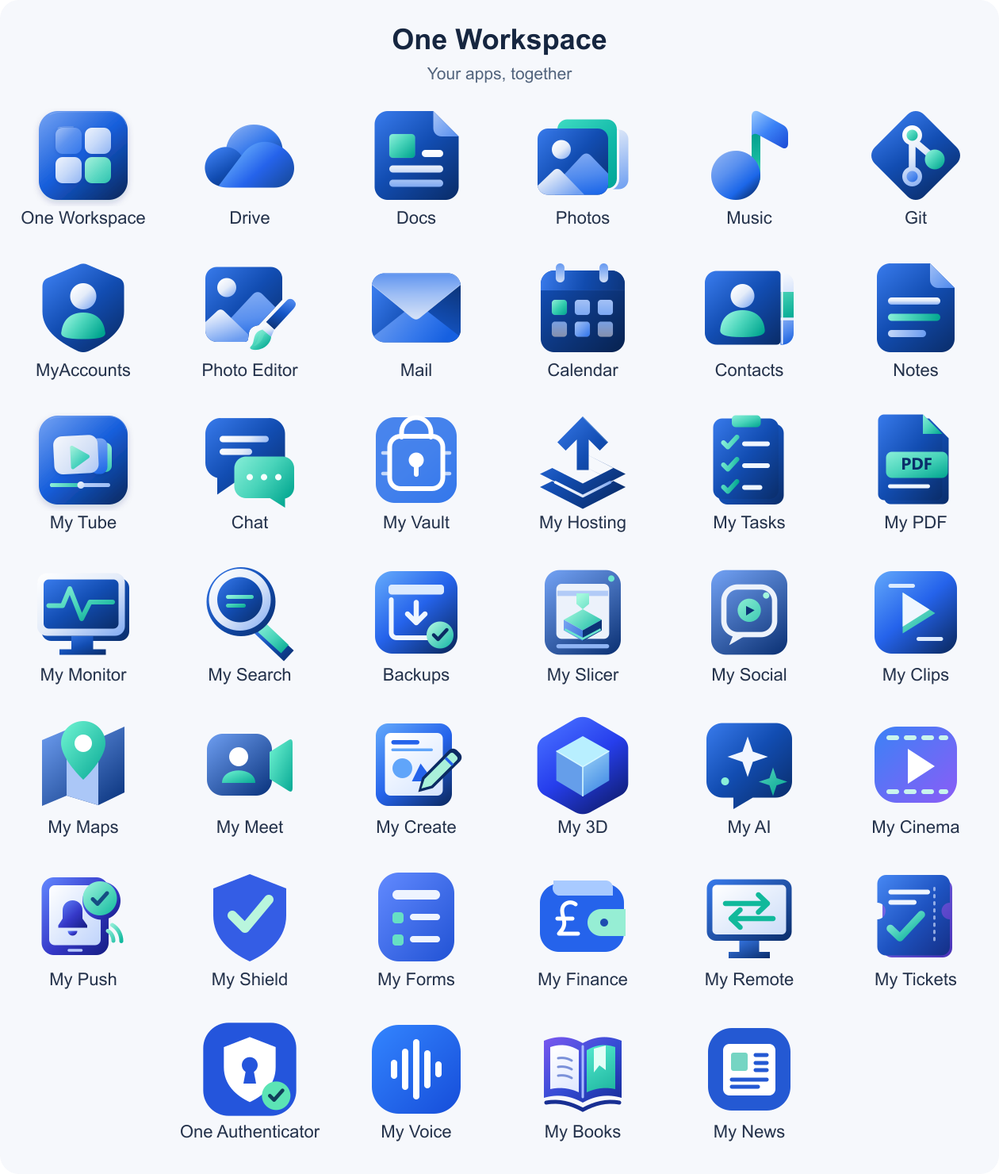
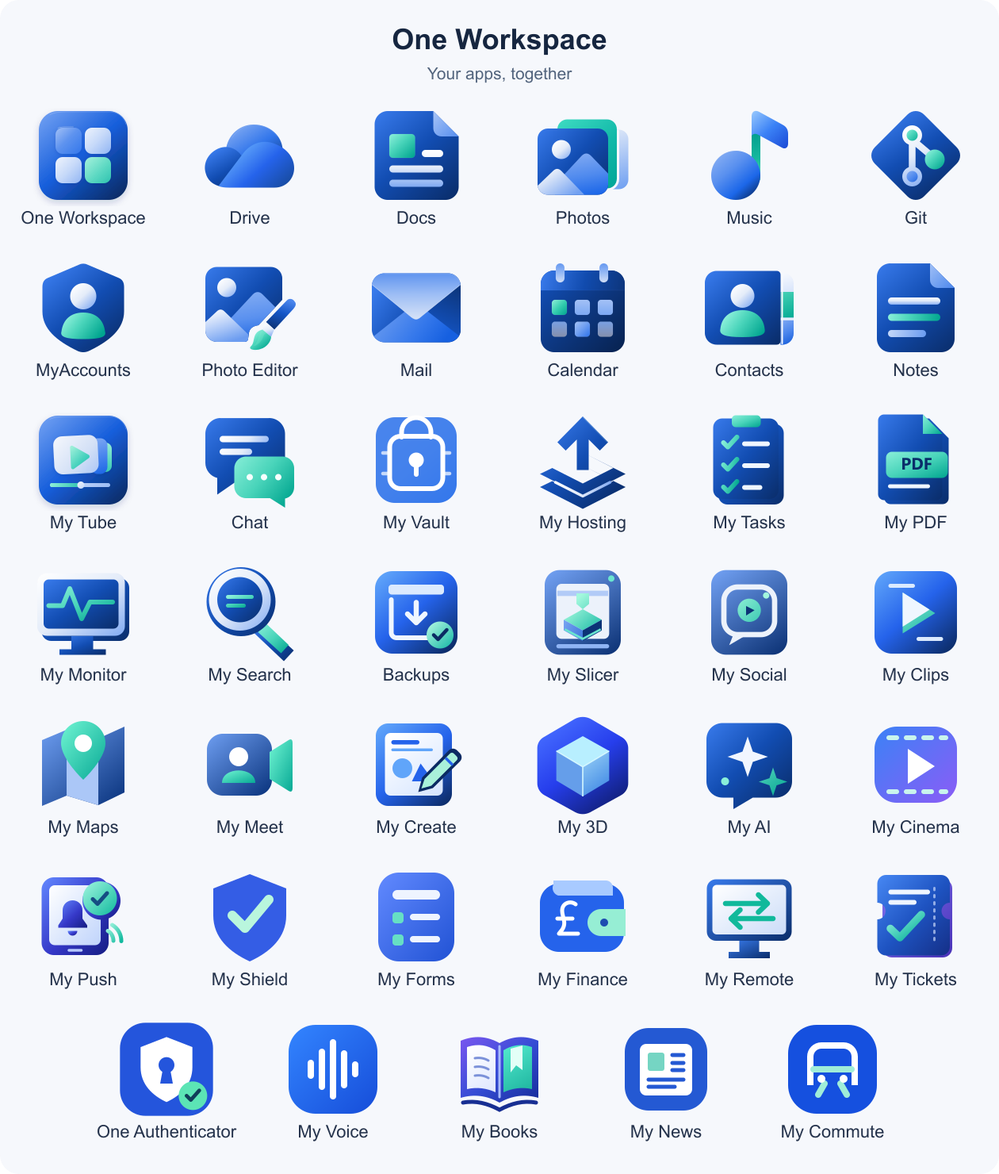
Add managed My Commute with complete optional app delivery [skip ci]

Changed region(s): [[0.0929, 0.8703, 0.8976, 0.9946]]

diff --git a/docs/branding/index.html b/docs/branding/index.html
@@ -2,6 +2,6 @@
 <html lang="en"><head><meta charset="utf-8"><meta name="viewport" content="width=device-width,initial-scale=1"><title>One Workspace logos</title><link rel="icon" href="../../internal/branding/icons/one_workspace.svg"><style>
 *{box-sizing:border-box}body{margin:0;background:#f4f6fb;color:#17233b;font:16px system-ui,sans-serif}main{max-width:1180px;margin:40px auto;padding:0 26px}header{display:flex;gap:20px;align-items:center;margin-bottom:32px}header img{width:72px;height:72px}h1{font-size:32px;margin:0 0 8px;letter-spacing:-1px}p{margin:0;color:#65718a}.grid{display:grid;grid-template-columns:repeat(4,1fr);gap:20px}article{background:white;border:1px solid #dfe5ef;border-radius:18px;overflow:hidden}h2{font-size:16px;margin:20px}.samples{display:flex;align-items:center;justify-content:center;gap:18px;height:136px;background:repeating-conic-gradient(#edf0f6 0% 25%,white 0% 50%) 50%/20px 20px}.samples img{width:80px;height:80px}.dark{background:#11182a}.small{display:flex;align-items:center;gap:14px;padding:20px;color:#7b879b;font-size:12px}.small img{flex:none}@media(max-width:850px){.grid{grid-template-columns:repeat(2,1fr)}}@media(max-width:450px){.grid{grid-template-columns:1fr}}
 </style></head><body><main><header><img src="../../internal/branding/icons/one_workspace.svg" alt=""><div><h1>One Workspace</h1><p>The complete app collection · shared blue artwork</p></div></header><div class="grid" id="logos"></div></main><script>
-const apps=[["one_workspace","One Workspace"],["my_drive","Drive"],["my_office","Docs"],["my_photos","Photos"],["my_music","Music"],["my_git","Git"],["my_accounts","MyAccounts"],["photo_editor","Photo Editor"],["my_mail","Mail"],["my_calendar","Calendar"],["my_contacts","Contacts"],["my_notes","Notes"],["my_tube","My Tube"],["my_chat","Chat"],["my_vault","My Vault"],["my_hosting","My Hosting"],["my_tasks","My Tasks"],["my_pdf","My PDF"],["my_monitor","My Monitor"],["my_search","My Search"],["backups","Backups"],["my_slicer","My Slicer"],["my_social","My Social"],["my_clips","My Clips"],["my_maps","My Maps"],["my_meet","My Meet"],["my_create","My Create"],["my_3d","My 3D"],["my_ai","My AI"],["my_cinema","My Cinema"],["my_push","My Push"],["my_shield","My Shield"],["my_forms","My Forms"],["my_finance","My Finance"],["my_remote","My Remote"],["my_tickets","My Tickets"],["one_authenticator","One Authenticator"],["my_voice","My Voice"],["my_books","My Books"],["my_news","My News"]];
+const apps=[["one_workspace","One Workspace"],["my_drive","Drive"],["my_office","Docs"],["my_photos","Photos"],["my_music","Music"],["my_git","Git"],["my_accounts","MyAccounts"],["photo_editor","Photo Editor"],["my_mail","Mail"],["my_calendar","Calendar"],["my_contacts","Contacts"],["my_notes","Notes"],["my_tube","My Tube"],["my_chat","Chat"],["my_vault","My Vault"],["my_hosting","My Hosting"],["my_tasks","My Tasks"],["my_pdf","My PDF"],["my_monitor","My Monitor"],["my_search","My Search"],["backups","Backups"],["my_slicer","My Slicer"],["my_social","My Social"],["my_clips","My Clips"],["my_maps","My Maps"],["my_meet","My Meet"],["my_create","My Create"],["my_3d","My 3D"],["my_ai","My AI"],["my_cinema","My Cinema"],["my_push","My Push"],["my_shield","My Shield"],["my_forms","My Forms"],["my_finance","My Finance"],["my_remote","My Remote"],["my_tickets","My Tickets"],["one_authenticator","One Authenticator"],["my_voice","My Voice"],["my_books","My Books"],["my_news","My News"],["my_commute","My Commute"]];
 document.querySelector('#logos').innerHTML=apps.map(([file,name])=>`<article><h2>${name}</h2><div class="samples"><img src="../../internal/branding/icons/${file}.svg" alt="${name}"></div><div class="samples dark"><img src="../../internal/branding/icons/${file}.svg" alt=""></div><div class="small"><img src="${file}-32.png" width="16" height="16" alt=""><img src="${file}-32.png" width="24" height="24" alt=""><img src="${file}-32.png" width="32" height="32" alt=""><span>16 · 24 · 32</span></div></article>`).join('');
 </script></body></html>

diff --git a/scripts/build-managed-seed.py b/scripts/build-managed-seed.py
@@ -8,6 +8,7 @@ from pathlib import Path
 from managed_component import remote_component, tickets_component, hosting_replacements
 from voice_component import voice_component
 from books_component import books_component
+from commute_component import commute_component
 from myai_component import myai_replacements
 from tube_component import tube_replacements
 from slicer_component import slicer_replacements
@@ -38,7 +39,7 @@ def extract(z,target):
    assert (m.external_attr>>16)&0o170000!=0o120000
   src.extractall(target)
 def main():
- p=argparse.ArgumentParser();p.add_argument('--go',default='go');p.add_argument('--version',required=True);p.add_argument('--cache',required=True);p.add_argument('--out',required=True);p.add_argument('--seed-archive');p.add_argument('--tickets-candidate',help='Local acceptance only; publisher rejects candidate builds');p.add_argument('--authenticator-candidate',help='Local acceptance only');p.add_argument('--accounts-candidate',help='Local acceptance only');p.add_argument('--books-candidate',help='Local My Books acceptance archive; not a public pin');p.add_argument('--voice-candidate',help='Local acceptance only; publisher rejects candidate builds');p.add_argument('--news-candidate',help='Local My News acceptance archive; not a public pin');a=p.parse_args()
+ p=argparse.ArgumentParser();p.add_argument('--go',default='go');p.add_argument('--version',required=True);p.add_argument('--cache',required=True);p.add_argument('--out',required=True);p.add_argument('--seed-archive');p.add_argument('--tickets-candidate',help='Local acceptance only; publisher rejects candidate builds');p.add_argument('--authenticator-candidate',help='Local acceptance only');p.add_argument('--accounts-candidate',help='Local acceptance only');p.add_argument('--books-candidate',help='Local My Books acceptance archive; not a public pin');p.add_argument('--voice-candidate',help='Local acceptance only; publisher rejects candidate builds');p.add_argument('--news-candidate',help='Local My News acceptance archive; not a public pin');p.add_argument('--commute-candidate',help='Local My Commute acceptance only; never publish');a=p.parse_args()
  cache=Path(a.cache).resolve();out=Path(a.out).resolve();cache.mkdir(parents=True,exist_ok=True);out.mkdir(parents=True,exist_ok=True)
  lock=json.loads((ROOT/'organization-components.lock.json').read_text(encoding='utf-8-sig'))
  seed=asset(lock['managedSeed'],cache,a.seed_archive);remote=asset(lock['myRemote'],cache)
@@ -80,12 +81,17 @@ def main():
  else:raise ValueError('Publish and pin My News before a release, or use --news-candidate for local acceptance')
  news_stage=Path(tempfile.mkdtemp(prefix='news-',dir=cache));extract(news,news_stage)
  news_contract=news_component(news_stage,allow_candidate=bool(a.news_candidate))
- contracts=[news_contract,books_contract,contract,ticket_contract,authenticator_component(auth_stage),voice_component(voice_stage,allow_candidate=bool(a.voice_candidate))]
+ if a.commute_candidate:commute=Path(a.commute_candidate).resolve()
+ elif lock.get('myCommute'):commute=asset(lock['myCommute'],cache)
+ else:raise ValueError('Publish and pin My Commute or pass --commute-candidate for local acceptance')
+ commute_stage=Path(tempfile.mkdtemp(prefix='commute-',dir=cache));extract(commute,commute_stage)
+ commute_contract=commute_component(commute_stage,allow_candidate=bool(a.commute_candidate))
+ contracts=[news_contract,commute_contract,books_contract,contract,ticket_contract,authenticator_component(auth_stage),voice_component(voice_stage,allow_candidate=bool(a.voice_candidate))]
  env=os.environ.copy();env.update(CGO_ENABLED='0',GOTOOLCHAIN='local')
  def go(*args):subprocess.run([a.go,*args],cwd=ROOT,env=env,check=True)
  go('build','-buildvcs=false','-trimpath','-ldflags',f'-s -w -X main.version={a.version}','-o',str(out/'Workspace.exe'),'./cmd/workspace')
  with zipfile.ZipFile(seed) as base:
-  cat=json.loads(base.read('catalog.json'));old=json.loads(json.dumps(cat));cat['version']=a.version;cat['installerIntegration']=9
+  cat=json.loads(base.read('catalog.json'));old=json.loads(json.dumps(cat));cat['version']=a.version;cat['installerIntegration']=10
   for key,item in old['packages'].items():
    h=hashlib.sha256();size=0
    with base.open(item['file']) as src:
@@ -124,6 +130,6 @@ def main():
     for item in contract['inputs'].values():dst.write(item['source'],item['file'])
  shutil.copyfile(payload,out/'workspace-bundle.zip')
  go('build','-buildvcs=false','-trimpath','-ldflags','-s -w -X github.com/oneworkspacestudio/one-workspace/internal/distribution.Repository=oneworkspacestudio/one-workspace','-o',str(out/'WorkspaceSetup-windows-amd64.exe'),'./cmd/setup')
- (out/'managed-build.json').write_text(json.dumps({'schema':1,'version':a.version,'seed':lock['managedSeed'],'remote':lock['myRemote'],'tickets':lock['myTickets'],'accounts':lock['accounts'],'hosting':lock['myHosting'],'voice':lock['myVoice'],'authenticator':lock['oneAuthenticator'],'books':lock.get('myBooks'),'news':lock.get('myNews'),'myAI':lock['myAI'],'myTube':lock['myTube'],'mySlicer':lock['mySlicer'],'myFinance':lock['myFinance'],'candidate':bool(a.news_candidate or a.books_candidate or a.tickets_candidate or a.authenticator_candidate or a.accounts_candidate or a.voice_candidate),'priorAppContractsRetainedExceptAccountsHostingMyAIMyTubeSlicerAndFinanceVersions':True,'priorPackagesRetainedExceptManagerAccountsHostingMyAIMyTubeSlicerFinanceAndReleaseNotes':True,'completeInventory':len(cat['apps']),'builder':'scripts/build-managed-seed.py'},indent=2),encoding='utf-8')
+ (out/'managed-build.json').write_text(json.dumps({'schema':1,'version':a.version,'seed':lock['managedSeed'],'remote':lock['myRemote'],'tickets':lock['myTickets'],'accounts':lock['accounts'],'hosting':lock['myHosting'],'voice':lock['myVoice'],'authenticator':lock['oneAuthenticator'],'books':lock.get('myBooks'),'news':lock.get('myNews'),'commute':lock.get('myCommute'),'myAI':lock['myAI'],'myTube':lock['myTube'],'mySlicer':lock['mySlicer'],'myFinance':lock['myFinance'],'candidate':bool(a.commute_candidate or a.news_candidate or a.books_candidate or a.tickets_candidate or a.authenticator_candidate or a.accounts_candidate or a.voice_candidate),'priorAppContractsRetainedExceptAccountsHostingMyAIMyTubeSlicerAndFinanceVersions':True,'priorPackagesRetainedExceptManagerAccountsHostingMyAIMyTubeSlicerFinanceAndReleaseNotes':True,'completeInventory':len(cat['apps']),'builder':'scripts/build-managed-seed.py'},indent=2),encoding='utf-8')
  print('Verified managed bundle:',len(cat['apps']),'apps;',len(cat['packages']),'packages',flush=True)
 if __name__=='__main__':main()

diff --git a/internal/setupui/page.go b/internal/setupui/page.go
@@ -32,7 +32,7 @@ async function checkAddresses(){const sequence=++addressSequence,domain=normalDo
 async function pollHosting(){try{const r=await api('state');hostingState(r);if(r.connecting)setTimeout(pollHosting,1000)}catch(e){connecting=false;$('connect').disabled=false;error(e)}}
 function drawProgress(p){if(!p||!p.total){$('progress').hidden=true;$('progressMeta').textContent='';$('checklist').replaceChildren();return}$('progress').hidden=false;$('progressFill').style.width=p.percent+'%';$('progress').setAttribute('aria-valuenow',String(p.percent));const elapsed=Math.max(0,Math.floor((Date.now()-Date.parse(p.startedAt))/1000));$('progressMeta').textContent=p.completed+' of '+p.total+' steps checked'+(['starting','installing'].includes(p.state)?' · '+Math.floor(elapsed/60)+'m '+elapsed%60+'s elapsed':'');$('phase').textContent=p.phase;const list=$('checklist');list.replaceChildren();for(const item of p.steps){const row=document.createElement('li'),mark=document.createElement('span'),text=document.createElement('div'),title=document.createElement('strong');mark.className='stepmark '+item.state;mark.textContent=({done:'✓',running:'…',warning:'!',failed:'×',blocked:'·'})[item.state]||'·';title.textContent=item.label;text.append(title);if(item.detail){const detail=document.createElement('small');detail.textContent=item.detail;text.append(detail)}row.append(mark,text);list.append(row)}}
 let appCatalog=[],appChecks={},retryOnly=false;
-function appChoices(apps){if(appCatalog.length||!apps?.length)return;appCatalog=apps;const sections={};for(const category of [{id:'general',name:'General'},{id:'administration',name:'Administration'},{id:'development',name:'Creative & Development'}]){if(!apps.some(a=>(a.category||'general')===category.id))continue;const section=document.createElement('fieldset'),heading=document.createElement('legend');heading.textContent=category.name+(category.id==='development'?' · optional':' · selected by default');section.style.cssText='border:1px solid #e2e7f2;border-radius:14px;padding:4px 16px 16px;margin-top:20px';section.append(heading);$('appChoices').append(section);sections[category.id]=section}for(const app of apps){const label=document.createElement('label'),check=document.createElement('input'),text=document.createElement('span');label.className='check';check.type='checkbox';check.checked=app.defaultInstall!==false;check.disabled=app.id==='accounts';appChecks[app.id]=check;text.textContent=app.name+(app.id==='accounts'?' (required)':'');const hint=document.createElement('small');hint.textContent=app.description;text.append(hint);label.append(check,text);(sections[app.category||'general']||$('appChoices')).append(label);check.onchange=()=>{if(check.checked){const include=id=>{for(const dep of appCatalog.find(a=>a.id===id)?.depends||[]){appChecks[dep].checked=true;include(dep)}};include(app.id)}else{let changed=true;while(changed){changed=false;for(const a of appCatalog){if(appChecks[a.id].checked&&(a.depends||[]).some(dep=>!appChecks[dep].checked)){appChecks[a.id].checked=false;changed=true}}}}appCount()}}appCount()}
+function appChoices(apps){if(appCatalog.length||!apps?.length)return;appCatalog=apps;const sections={};for(const category of [{id:'general',name:'General'},{id:'administration',name:'Administration'},{id:'development',name:'Creative & Development'}]){if(!apps.some(a=>(a.category||'general')===category.id))continue;const section=document.createElement('fieldset'),heading=document.createElement('legend');heading.textContent=category.name+(category.id==='development'?' · optional':' · selected by default');section.style.cssText='border:1px solid #e2e7f2;border-radius:14px;padding:4px 16px 16px;margin-top:20px';section.append(heading);$('appChoices').append(section);sections[category.id]=section}for(const app of apps){const label=document.createElement('label'),check=document.createElement('input'),text=document.createElement('span');label.className='check';check.type='checkbox';check.checked=app.defaultInstall!==false;check.disabled=app.id==='accounts';appChecks[app.id]=check;text.textContent=app.name+(app.id==='accounts'?' (required)':app.defaultInstall===false?' (optional)':'');const hint=document.createElement('small');hint.textContent=app.description;text.append(hint);label.append(check,text);(sections[app.category||'general']||$('appChoices')).append(label);check.onchange=()=>{if(check.checked){const include=id=>{for(const dep of appCatalog.find(a=>a.id===id)?.depends||[]){appChecks[dep].checked=true;include(dep)}};include(app.id)}else{let changed=true;while(changed){changed=false;for(const a of appCatalog){if(appChecks[a.id].checked&&(a.depends||[]).some(dep=>!appChecks[dep].checked)){appChecks[a.id].checked=false;changed=true}}}}appCount()}}appCount()}
 function appCount(){$('appCount').textContent=appCatalog.filter(a=>appChecks[a.id].checked).length+' of '+appCatalog.length+' apps selected. Backups is included and scheduling starts off.'}
 async function poll(){clearTimeout(pollTimer);if(reviewingRecovery)return;try{const r=await api('state');appChoices(r.availableApps);$('version').textContent=r.offline?'Offline bundle '+r.version:installed?r.version:'Latest apps from GitHub';hostingState(r);
 if(r.busy){$('continueSetup').hidden=true;$('reviewRecovery').hidden=true;$('error').hidden=true;busy=false;if(step!==3)show(3);busy=true;$('navigation').hidden=true;$('installTitle').textContent='Installing your Workspace…';$('summary').textContent='Installation is continuing. Reopening this page does not start another install.';drawProgress(r.installation);$('phase').textContent=r.phase;pollTimer=setTimeout(poll,1000);return}

diff --git a/scripts/commute_component.py b/scripts/commute_component.py
@@ -1,0 +1,25 @@
+"""My Commute package: one executable with embedded UI and private apphost state."""
+import hashlib,json,re
+from pathlib import Path
+
+def commute_component(root,allow_candidate=False):
+ root=Path(root).resolve();c=json.loads((root/'compatibility.json').read_text(encoding='utf-8-sig'));m=json.loads((root/'manifest.json').read_text(encoding='utf-8-sig'))
+ assert c['schema']==1 and c['id']=='commute' and c['route']=='/commute' and c['oidc'] is True
+ assert c['workspaceInstallerIntegration']==10 and c['minimumWorkspaceVersion']=='0.3.0-preview.116'
+ assert c['singleExecutable'] is True and c['capabilities']==['native-commute-v1']
+ assert m['version']==c['version'] and m['executableSHA256']==hashlib.sha256((root/'MyCommute.exe').read_bytes()).hexdigest()
+ if not allow_candidate:assert m.get('candidate') is False and re.fullmatch('[a-f0-9]{40}',m.get('sourceCommit',''))
+ inputs={}
+ for p in sorted(root.rglob('*')):
+  if not p.is_file():continue
+  rel=p.relative_to(root).as_posix()
+  if rel=='MyCommute.exe':key,dest='commute',rel
+  elif rel in ['LICENSE','NOTICE','THIRD-PARTY-NOTICES.md']:key,dest='commute-'+rel,'licenses/MyCommute-'+rel
+  elif rel in ['compatibility.json','manifest.json']:key,dest='commute-'+('contract' if rel=='compatibility.json' else 'manifest'),'docs/MyCommute/'+rel
+  elif rel.startswith('licenses/'):key,dest='commute-license-'+hashlib.sha256(rel.encode()).hexdigest()[:16],'licenses/MyCommute/'+rel[9:]
+  elif rel in ['README.md','docs/ACCEPTANCE.md','docs/DATA-SOURCES.md','docs/SECURITY.md']:key,dest='commute-doc-'+hashlib.sha256(rel.encode()).hexdigest()[:16],'docs/MyCommute/'+rel
+  else:raise ValueError('Unexpected Commute payload '+rel)
+  inputs[key]={'source':str(p),'file':dest}
+ assert all(k in inputs for k in ['commute','commute-contract','commute-manifest','commute-LICENSE','commute-NOTICE'])
+ app={'id':'commute','name':'My Commute','description':'Follow live London buses, Tube and trains and plan your next connection','version':c['version'],'kind':'process','package':'commute','executable':'MyCommute.exe','port':9040,'route':'/commute','stripPrefix':True,'health':'/healthz','depends':['accounts'],'oidc':True,'callback':'/commute/auth/callback','args':['--data','${DATA}/commute','--listen','127.0.0.1:${PORT}','--origin','${ORIGIN}/commute','--no-browser'],'source':'https://github.com/oneworkspacestudio/my-commute/releases/tag/v'+c['version']}
+ return {'app':app,'inputs':inputs}

diff --git a/scripts/test-publisher.py b/scripts/test-publisher.py
@@ -12,9 +12,10 @@ class PublisherWindowsArguments(unittest.TestCase):
     def test_books_publisher_requires_current_complete_inventory(self):
         registry=json.loads((publisher.ROOT/'internal/catalog/managed-apps.json').read_text())['apps']
         apps=[dict(id=a['id'],name=a['name'],route=a['route'],oidc=a['oidc'],source='https://github.com/'+a['repository']+'/releases/tag/test') for a in registry]
-        publisher.validate_managed_catalog(dict(installerIntegration=9,apps=apps))
-        with self.assertRaises(RuntimeError):publisher.validate_managed_catalog(dict(installerIntegration=8,apps=apps))
-        with self.assertRaises(RuntimeError):publisher.validate_managed_catalog(dict(installerIntegration=9,apps=[a for a in apps if a['id']!='books']))
+        publisher.validate_managed_catalog(dict(installerIntegration=10,apps=apps))
+        with self.assertRaises(RuntimeError):publisher.validate_managed_catalog(dict(installerIntegration=9,apps=apps))
+        with self.assertRaises(RuntimeError):publisher.validate_managed_catalog(dict(installerIntegration=10,apps=[a for a in apps if a['id']!='books']))
+        with self.assertRaises(RuntimeError):publisher.validate_managed_catalog(dict(installerIntegration=10,apps=[a for a in apps if a['id']!='commute']))
     def test_large_catalog_uploads_every_asset_once_with_bounded_utf16_commands(self):
         paths = ['C:/Synthetic staging folder \U0001f4e6/' + 'x'*100 + '/workspace-package-' + str(n) + '.bin' for n in range(600)]
         commands = list(publisher.upload_commands('v0.3.0-preview.104', paths))

diff --git a/internal/distribution/requirements.go b/internal/distribution/requirements.go
@@ -11,7 +11,7 @@ var managerRequirementVersion = regexp.MustCompile(`^[0-9]+\.[0-9]+\.[0-9]+(?:-[
 // Add a capability only after its manager integration exists and is tested.
 // The origin capability is exercised with actual native SSO, catalog and logout
 // fixtures. It does not claim application E2EE, calling or native mobile support.
-var managerCapabilities = map[string]bool{"native-news-v1": true, "native-books-v1": true, "native-voice-v1": true, "oneaccount-mfa-v1": true, "oneaccount-offline-totp-v1": true, "self-hosted-push-v1": true, "app-update-requirements-v1": true, "chat-state-v2": true, "isolated-chat-origin-v1": true, "guarded-social-storage-v1": true, "scoped-social-storage-v2": true, "scoped-clips-storage-v1": true, "scoped-forms-storage-v1": true, "native-tickets-v1": true, "native-hosting-git-v1": true}
+var managerCapabilities = map[string]bool{"native-commute-v1": true, "native-news-v1": true, "native-books-v1": true, "native-voice-v1": true, "oneaccount-mfa-v1": true, "oneaccount-offline-totp-v1": true, "self-hosted-push-v1": true, "app-update-requirements-v1": true, "chat-state-v2": true, "isolated-chat-origin-v1": true, "guarded-social-storage-v1": true, "scoped-social-storage-v2": true, "scoped-clips-storage-v1": true, "scoped-forms-storage-v1": true, "native-tickets-v1": true, "native-hosting-git-v1": true}
 
 func checkRequirements(current, minimum string, capabilities []string) error {
 	if len(minimum) > 80 || !managerRequirementVersion.MatchString(minimum) {

diff --git a/scripts/test-commute-component.py b/scripts/test-commute-component.py
@@ -1,0 +1,16 @@
+import unittest,tempfile,json,hashlib
+from pathlib import Path
+from commute_component import commute_component
+class CommuteContract(unittest.TestCase):
+ def test_namespace_hash_and_candidate_boundary(self):
+  with tempfile.TemporaryDirectory() as d:
+   r=Path(d);(r/'MyCommute.exe').write_bytes(b'synthetic');(r/'LICENSE').write_text('MIT');(r/'NOTICE').write_text('Synthetic notices')
+   (r/'compatibility.json').write_text(json.dumps(dict(schema=1,id='commute',route='/commute',oidc=True,version='0.1.0-preview.1',workspaceInstallerIntegration=10,minimumWorkspaceVersion='0.3.0-preview.116',singleExecutable=True,capabilities=['native-commute-v1'])))
+   (r/'manifest.json').write_text(json.dumps(dict(version='0.1.0-preview.1',candidate=True,executableSHA256=hashlib.sha256(b'synthetic').hexdigest())))
+   c=commute_component(r,True);self.assertEqual(c['app']['callback'],'/commute/auth/callback');self.assertEqual(c['app']['port'],9040);self.assertTrue(all(k=='commute' or k.startswith('commute-') for k in c['inputs']))
+   with self.assertRaises(AssertionError):commute_component(r)
+   (r/'private-data.json').write_text('{}')
+   with self.assertRaises(ValueError):commute_component(r,True)
+   (r/'private-data.json').unlink();(r/'MyCommute.exe').write_bytes(b'changed')
+   with self.assertRaises(AssertionError):commute_component(r,True)
+if __name__=='__main__':unittest.main()

diff --git a/internal/catalog/commute_test.go b/internal/catalog/commute_test.go
@@ -1,0 +1,30 @@
+package catalog
+
+import "testing"
+
+func TestCommuteSelectionOwnsWholePackage(t *testing.T) {
+	if DefaultInstall("commute") || CategoryFor("commute").ID != "general" {
+		t.Fatal("London app must be an optional General app")
+	}
+	c := Catalog{Packages: map[string]Package{"commute": {File: "MyCommute.exe"}, "commute-contract": {File: "docs/MyCommute/compatibility.json"}, "commute-manifest": {File: "docs/MyCommute/manifest.json"}, "unrelated": {File: "Other.exe"}}, Apps: []App{{ID: "commute", Package: "commute"}, {ID: "other", Package: "unrelated"}}}
+	for _, on := range []bool{true, false} {
+		ids := InstallPackageIDs(c, map[string]bool{"commute": on, "other": true})
+		if ids["commute"] != on || ids["commute-contract"] != on || ids["commute-manifest"] != on || !ids["unrelated"] {
+			t.Fatal("package ownership drift", ids)
+		}
+	}
+}
+func TestCommuteRequiredInCompleteRegistry(t *testing.T) {
+	var c Catalog
+	for _, a := range ManagedApps() {
+		if a.ID != "commute" {
+			c.Apps = append(c.Apps, App{ID: a.ID, Name: a.Name, Route: a.Route, OIDC: a.OIDC})
+		}
+	}
+	if c.ValidateManagedInventory() == nil {
+		t.Fatal("release must reject missing Commute")
+	}
+	if InstallerIntegration < 10 {
+		t.Fatal("old controllers cannot install Commute")
+	}
+}

diff --git a/internal/suite/commute_test.go b/internal/suite/commute_test.go
@@ -1,0 +1,27 @@
+package suite
+
+import (
+	"github.com/oneworkspacestudio/one-workspace/internal/catalog"
+	"path/filepath"
+	"testing"
+)
+
+func TestCommuteManagedContract(t *testing.T) {
+	c := NewConfig(Request{Port: 29000, Mode: "local", Programs: "C:/Synthetic/Apps", Data: "C:/Synthetic/Data", Files: "C:/Synthetic/Files"}, catalog.Catalog{Apps: []catalog.App{{ID: "commute", Kind: "process", Executable: "MyCommute.exe", Port: 9040, Route: "/commute", OIDC: true}}})
+	a, ok := c.Catalog.Find("commute")
+	if !ok || a.Port != 29050 || !foundationApp("commute") || !knownUpdateStorageProfile("commute") {
+		t.Fatal("Commute runtime/auth/storage not registered", a)
+	}
+	if appWorkingDir(c, "commute") != filepath.Join(c.Data, "commute") || len(appUpdatePrivatePaths("commute")) != 1 {
+		t.Fatal("private recovery scope missing")
+	}
+	for _, s := range suiteSignIns {
+		if s.id == "commute" {
+			if s.login != "/commute/auth/login" || s.logout != "/commute/auth/logout" || s.cookies[0] != "commute_session" {
+				t.Fatal("sign-in/out contract drift")
+			}
+			return
+		}
+	}
+	t.Fatal("shared sign-in/out missing")
+}

diff --git a/internal/setupui/server.go b/internal/setupui/server.go
@@ -126,7 +126,7 @@ func (s *Server) Handler() http.Handler {
 		available := []map[string]any{}
 		for _, a := range s.cat.Apps {
 			category := catalog.CategoryFor(a.ID)
-			available = append(available, map[string]any{"id": a.ID, "name": a.Name, "description": a.Description, "depends": a.Depends, "category": category.ID, "categoryName": category.Name, "defaultInstall": category.DefaultInstall})
+			available = append(available, map[string]any{"id": a.ID, "name": a.Name, "description": a.Description, "depends": a.Depends, "category": category.ID, "categoryName": category.Name, "defaultInstall": catalog.DefaultInstall(a.ID)})
 		}
 		state["availableApps"] = available
 		state["offline"] = s.offline

diff --git a/internal/suite/runtime_storage.go b/internal/suite/runtime_storage.go
@@ -12,7 +12,7 @@ func appWorkingDir(c Config, app string) string {
 	switch app {
 	case "cinema", "myai", "my3d", "create", "maps", "meet", "clips", "social", "slicer", "tasks", "pdf", "monitor", "search", "accounts", "drive", "photos", "gitea", "music", "mail", "calendar", "contacts", "notes", "my-tube", "chat":
 		return filepath.Join(c.Data, app)
-	case "news", "books", "voice", "authenticator", "push", "shield", "forms", "finance", "remote", "tickets":
+	case "commute", "news", "books", "voice", "authenticator", "push", "shield", "forms", "finance", "remote", "tickets":
 		return filepath.Join(c.Data, app)
 	case "hosting":
 		return filepath.Join(c.Data, "my-hosting")

diff --git a/internal/distribution/updates.go b/internal/distribution/updates.go
@@ -91,6 +91,7 @@ type updateGroup struct {
 }
 
 var updateGroups = []updateGroup{
+	{"commute", "My Commute", "my-commute", []string{"commute"}},
 	{"books", "My Books", "my-books", []string{"books"}},
 	{"news", "My News", "my-news", []string{"news"}},
 	{"voice", "My Voice", "my-voice", []string{"voice"}},
@@ -295,6 +296,9 @@ func suiteUpdateGroups(latest catalog.Catalog) []updateGroup {
 func updatePackageOwner(id string) string {
 	if id == "news" || strings.HasPrefix(id, "news-") {
 		return "news"
+	}
+	if id == "commute" || strings.HasPrefix(id, "commute-") {
+		return "commute"
 	}
 	if id == "books" || strings.HasPrefix(id, "books-") {
 		return "books"
